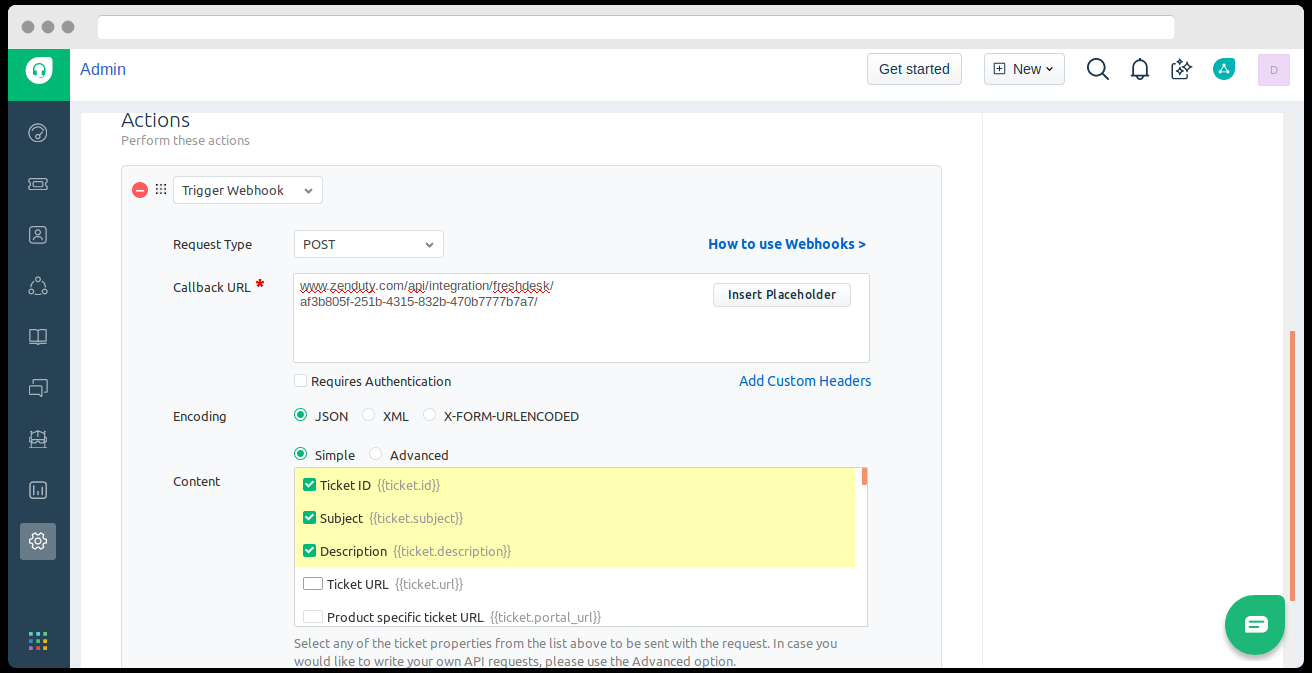
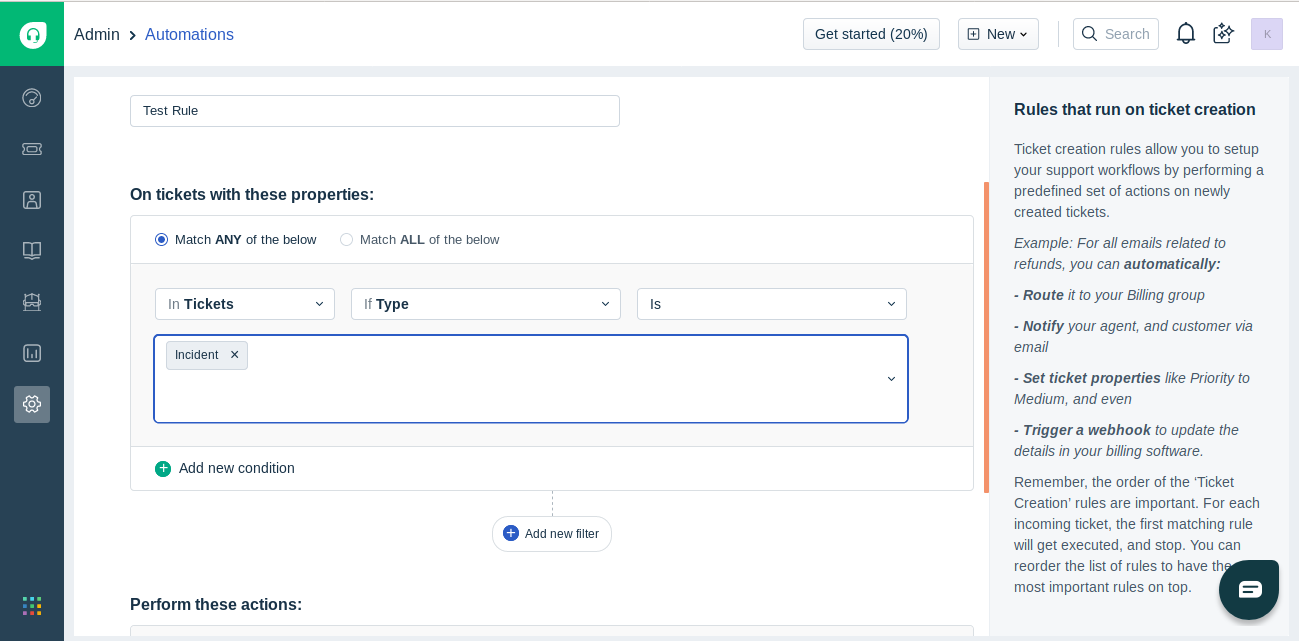
Freshdesk documentation update

diff --git a/docs/Freshdesk.md b/docs/Freshdesk.md
@@ -16,21 +16,23 @@ Freshdesk is an online cloud-based customer service software providing helpdesk 
 
 ## In Freshdesk: 
 
-5. Log into Freshdesk. Click on the "Admin" button and select "Dispatch’r" under "Helpdesk Productivity Settings". 
+5. Log into Freshdesk. Click on the "Admin" button and select "Automations" under "Helpdesk Productivity Settings". 
 
 ![](/img/Integrations/Freshdesk/1.png)
 
-6. Select "New Rule" and pick "Rule Name" and "Description".
-
-7. Set Conditions as: 
-	
-	**Type Is Incident**
+6. Click on the "Create the first rule" button.
 
 ![](/img/Integrations/Freshdesk/2.png)
 
+7. Select "New Rule" and pick "Rule Name" and "Description". Set Conditions as: 
+	
+	**Type Is Incident**
+
+![](/img/Integrations/Freshdesk/3.png)
+
 8. Select "Trigger Webhook" from the Actions"  dropdown, and set "Request Type" to "POST". 
 
-	Under the "Callback URL", paste the webhook url you copied earlier.
+	Under the "URL", paste the webhook url you copied earlier.
 
 	Set the "Encoding" as "JSON" and content as "Simple".
 	
@@ -38,23 +40,29 @@ Freshdesk is an online cloud-based customer service software providing helpdesk 
 
 This is shown in the screenshot below: 
 
-![](/img/Integrations/Freshdesk/3.png)
+![](/img/Integrations/Freshdesk/4.png)
 
 9. Save. 
 
-10. Click on the "Admin" button on and select "Observer" under "Helpdesk Productivity Settings".
-
-![](/img/Integrations/Freshdesk/4.png)
-
-11. Select "New Rule" and pick a "Rule Name" and "Description". 
-
-	Set "Action Performed By" to "Agent" and an "Event". For example, here we have picked:"Status is Changed" from "Any Status" to "Any Status".
+10. From the same window, move to "Ticket Updates" sections and click on "New Rule" button. 
 
 ![](/img/Integrations/Freshdesk/5.png)
 
+11. Select "New Rule" and pick a "Rule Name" and "Description". 
+
+	Set "Action Performed By" to "Agent" and an "Event". For example, here we have picked:"Status is Changed" from "Any Status" to "Any Status" and so on depending upon the requirements.
+
+![](/img/Integrations/Freshdesk/6.png)
+
+![](/img/Integrations/Freshdesk/7.png)
+
+12. In the "On tickets with these properties" section, set condition as "Type Is" and "Incident".
+
+![](/img/Integrations/Freshdesk/8.png)
+
 12. Select "Trigger Webhook" from the "Actions" dropdown and set the "Request Type" to "POST".
 	
-	Under the callback URL,paste the webhook link you copied earlier.
+	In the URL textbox, paste the webhook link you copied earlier.
 	
 	Set the Encoding to "JSON" and Content to "Simple".
 	
@@ -62,7 +70,7 @@ This is shown in the screenshot below:
 
 This is shown in the screenshot below: 
 
-![](/img/Integrations/Freshdesk/6.png)
+![](/img/Integrations/Freshdesk/9.png)
 
 13. Save.
 
